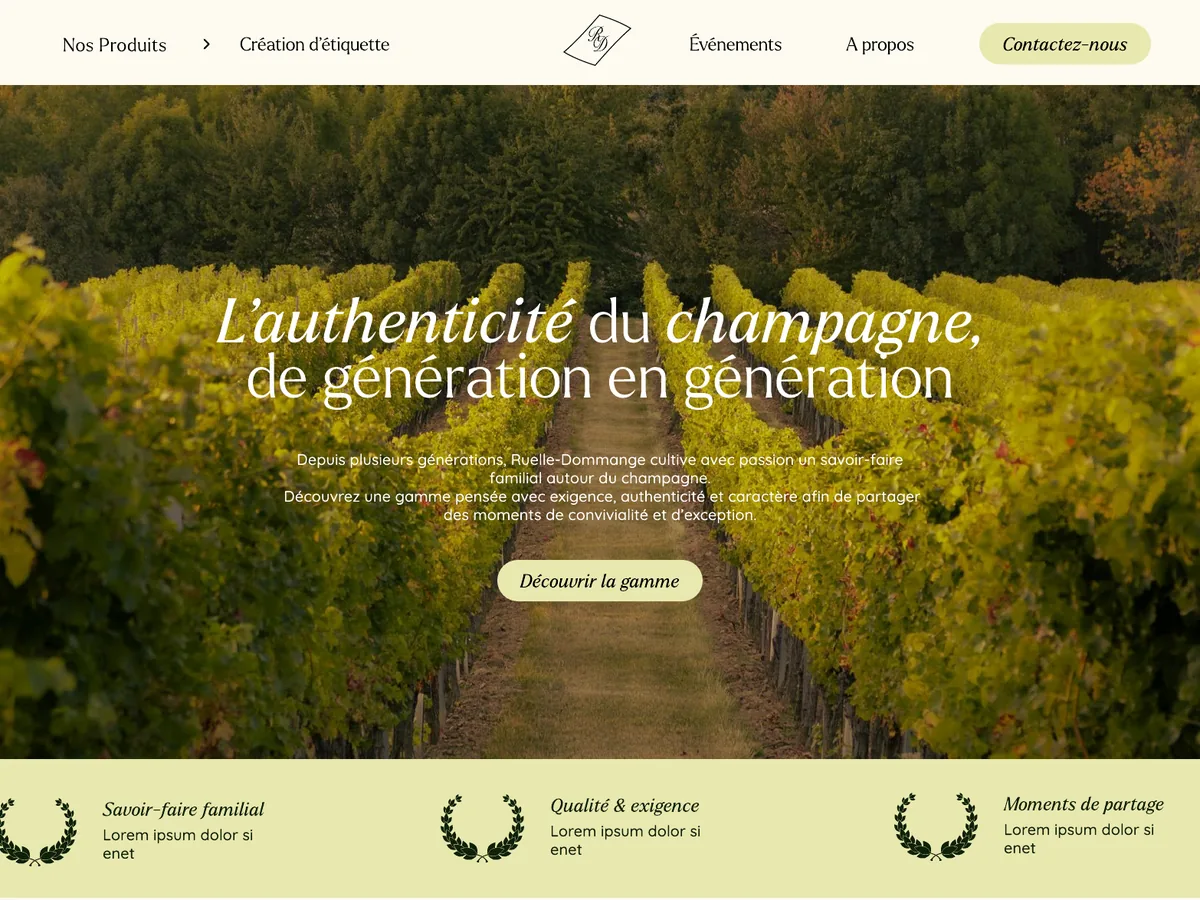
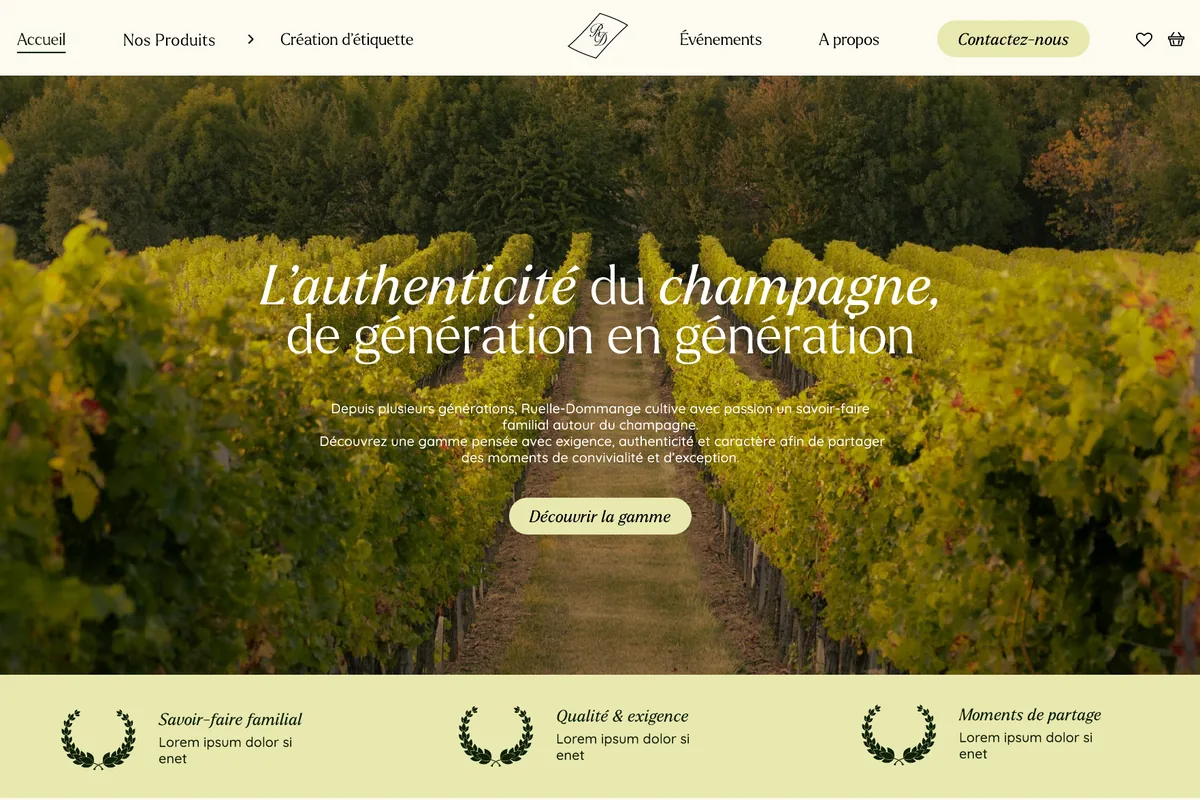
Add files via upload

diff --git a/projet-resolar.html b/projet-resolar.html
@@ -3,19 +3,37 @@
 <head>
 <meta charset="UTF-8">
 <meta name="viewport" content="width=device-width, initial-scale=1, viewport-fit=cover">
-<title>Projets — Studio Onze</title>
-<meta name="description" content="Sélection de projets de Studio Onze : identité visuelle, sites web, direction artistique, print.">
+<title>Resolar — Étude de cas : site web et supports de communication | Studio Onze</title>
+<meta name="description" content="Étude de cas : site web et supports de communication de Resolar, un système de chauffage inventé par deux ingénieurs belges. Cartes de visite, poster, roll-ups, présentation et déclinaisons de marque. Par Studio Onze.">
 <link rel="preconnect" href="https://fonts.googleapis.com">
 <link rel="preconnect" href="https://fonts.gstatic.com" crossorigin>
 <link href="https://fonts.googleapis.com/css2?family=Poppins:wght@300;400;500;700&family=Permanent+Marker&display=swap" rel="stylesheet">
-<link rel="canonical" href="https://www.studioonze.be/projets.html">
+<link rel="canonical" href="https://www.studioonze.be/projet-resolar.html">
 <meta name="robots" content="index, follow">
-<meta property="og:title" content="Projets — Studio Onze">
-<meta property="og:description" content="Sélection de projets de Studio Onze : identité visuelle, sites web, direction artistique, print.">
+<meta property="og:title" content="Resolar — Site web &amp; supports de communication | Studio Onze">
+<meta property="og:description" content="Étude de cas : site web et supports de communication de Resolar, un système de chauffage inventé par deux ingénieurs belges. Cartes de visite, poster, roll-ups, présentation et déclinaisons de marque. Par Studio Onze.">
 <meta property="og:type" content="website">
-<meta property="og:url" content="https://www.studioonze.be/projets.html">
+<meta property="og:url" content="https://www.studioonze.be/projet-resolar.html">
 <meta property="og:locale" content="fr_BE">
+<meta property="og:image" content="https://www.studioonze.be/assets/projets/resolar/resolar-og.jpg">
+<meta property="og:image:width" content="1200">
+<meta property="og:image:height" content="630">
+<meta property="og:image:alt" content="Logotype reSOLAR en blanc sur une photographie de panneaux solaires aux reflets orange">
+<meta name="twitter:card" content="summary_large_image">
 <link rel="stylesheet" href="style.css">
+<script type="application/ld+json">
+{
+  "@context": "https://schema.org",
+  "@type": "CreativeWork",
+  "name": "Resolar — Site web et supports de communication",
+  "about": "Site web et supports de communication de Resolar, système de chauffage associant un module de stockage thermique, des panneaux solaires, une pompe à chaleur et des gainables",
+  "creator": { "@type": "Organization", "name": "Studio Onze", "url": "https://www.studioonze.be/" },
+  "dateCreated": "2025",
+  "inLanguage": "fr-BE",
+  "url": "https://www.studioonze.be/projet-resolar.html",
+  "image": "https://www.studioonze.be/assets/projets/resolar/resolar-og.jpg"
+}
+</script>
 </head>
 <body>
 <div class="page-wrap" id="pageWrap">
@@ -35,15 +53,11 @@
 <path d="M454.212 101.027C442.018 103.929 430.099 105.38 418.363 105.471C406.627 105.561 399.292 104.926 396.358 103.566C391.866 101.48 390.399 98.3061 392.141 94.1345C396.175 84.1588 407.727 73.6389 426.615 62.575C427.256 62.2122 427.715 61.6681 428.082 60.9426C428.448 60.2171 428.082 59.4916 427.44 58.9474C426.431 58.494 423.497 58.6754 418.638 59.6729C413.87 60.6705 410.845 60.8519 409.744 60.3984C408.644 59.8543 408.736 58.1312 409.928 55.1385C411.12 52.1458 412.678 49.9693 414.512 48.5183C417.263 45.5256 429.182 42.3515 450.361 38.996C471.541 35.6406 483.46 34.643 486.21 35.9126C487.586 36.5474 487.677 38.3612 486.485 41.2632C484.285 46.7045 480.893 49.9693 476.217 50.9669C471.541 52.0551 465.306 54.0503 457.421 57.043C449.536 60.0357 441.468 64.026 433.216 68.9231C424.964 73.8203 419.922 78.5361 418.088 82.9798C417.813 83.9774 417.813 84.7029 418.088 85.4284C418.363 86.0632 418.913 86.6074 419.83 87.0608C422.489 88.3304 429.182 88.5118 440.001 87.7863C450.82 87.0608 462.28 85.5191 474.566 83.1612H475.666C477.042 83.8867 477.042 85.7912 475.758 88.9652C473.649 94.1345 466.498 98.2155 454.304 101.027H454.212Z" fill="currentColor"/>
 <path d="M371.236 112C368.027 112 366.377 111.275 366.377 109.733L366.744 108.735C373.62 98.4875 379.58 88.6024 384.531 79.0802C389.482 69.5579 391.957 63.3911 391.957 60.4891C391.957 57.5871 391.682 58.8567 391.224 58.3126C390.765 57.7684 390.032 57.4964 389.115 57.4057C384.623 57.4057 378.571 60.217 371.053 65.9304C363.535 71.6437 356.842 77.5385 351.157 83.5239C345.473 89.6 341.255 94.4972 338.413 98.3061C335.662 102.115 331.536 104.019 325.944 104.019C320.351 104.019 321.451 103.294 321.451 101.752C321.451 98.7595 327.136 88.3304 338.413 70.3741C349.69 52.4178 357.208 42.7142 360.876 41.3539C362.801 40.1749 365.368 39.6308 368.394 39.6308C371.42 39.6308 372.978 40.2656 372.978 41.4446C372.978 42.6235 371.603 45.2535 368.853 49.2437C366.102 53.234 364.727 55.7733 364.727 56.9522C365.002 57.8591 365.46 58.3126 366.194 58.3126C366.927 58.3126 367.569 58.1312 368.211 57.5871C385.264 44.4373 398.834 37.9077 409.011 37.9077C419.188 37.9077 415.429 40.3563 415.429 45.2535C415.429 50.1506 413.045 55.3199 408.277 65.9304C403.51 76.5409 397.459 86.7887 390.124 96.7644C382.789 106.74 376.462 111.728 371.236 111.728V112Z" fill="currentColor"/>
 </g>
-<defs>
-<clipPath id="clip0_678_168">
-<rect width="558" height="112" fill="white"/>
-</clipPath>
-</defs>
-</svg></a>
+<defs><clipPath id="clip0_678_168"><rect width="558" height="112" fill="white"/></clipPath></defs>
+</svg></a></a>
     <div class="nav-right">
     <ul class="navlinks">
-      <li><a href="projets.html">Projets</a></li>
+      <li><a href="projets.html" class="active">Projets</a></li>
       <li><a href="apropos.html">À propos</a></li>
       <li><a href="contact.html">Contact</a></li>
     </ul>
@@ -60,125 +74,71 @@
 </header>
 
 <main>
-  <section style="padding-bottom:0;">
-    <div class="wrap" style="display:flex; justify-content:space-between; gap:2rem; flex-wrap:wrap; align-items:flex-end;">
-      <h1 style="font-size:clamp(2.2rem,6vw,4.5rem); font-weight:400; letter-spacing:-0.02em; text-transform:uppercase;">Projets</h1>
-      <p class="hero-lede" style="margin-top:0; max-width:30ch;"><span class="caps">(Sélection)</span><br>Une sélection de projets récents, en identité, digital et print.</p>
+  <section class="project-hero">
+    <div class="wrap">
+      <a class="caps" href="projets.html">← Retour aux projets</a>
+      <h1 class="project-title"><span class="char">re</span>SOLAR</h1>
+      <p class="project-sub">Site web — Supports de communication</p>
+      <div class="project-meta">
+        <div><span class="caps">Client</span><p>Resolar, stockage thermique pour pompes à chaleur</p></div>
+        <div><span class="caps">Type</span><p>Site web &amp; print</p></div>
+        <div><span class="caps">Année</span><p>2025</p></div>
+        <div><span class="caps">Discipline</span><p>Site web, print, présentation, déclinaisons de marque</p></div>
+      </div>
     </div>
   </section>
 
-  <section style="border-top:none;">
-    <div class="wrap">
-      <div class="filters">
-        <select id="sortSelect"><option>Trier par : Récents</option><option>Trier par : A → Z</option></select>
-        <select id="typeSelect">
-          <option value="all">Type de projet : Tous</option>
-          <option value="identite">Identité</option>
-          <option value="web">Site web</option>
-          <option value="print">Print</option>
-          <option value="da">Direction artistique</option>
-          <option value="motion">Motion</option>
-        </select>
-        <div class="view-toggle">
-          <button data-view="grid" class="active">Grille</button>
-          <button data-view="list">Liste</button>
-        </div>
-      </div>
+  <section style="padding:0; border-top:none;">
+    <div class="project-split">
+      <aside class="project-info">
+        <div class="project-info-inner">
+          <h2 class="caps">Le projet</h2>
+          <p>Resolar est née de l'invention de deux ingénieurs belges&nbsp;: une nouvelle façon de se chauffer. Un module de stockage thermique, l'invention elle-même, s'associe à des panneaux solaires, une pompe à chaleur et des gainables, et conserve l'énergie excédentaire produite par le solaire et la pompe à chaleur.</p>
+          <p>Il fallait rendre cette technologie lisible et crédible auprès de publics très différents&nbsp;: visiteurs de salon, partenaires industriels, investisseurs. Le site web, en anglais, présente l'activité ; autour de lui, des supports déclinent le même univers&nbsp;: un orange vif, couleur du soleil et de la chaleur, face à un bleu marine sérieux et technique, et un symbole en rayons posé sur une ligne.</p>
 
-      <div class="view-block active" id="gridView">
-        <div class="grid-view">
-          <a class="grid-card featured" href="projet-le-scenario.html" data-type="identite web">
-            <div class="grid-thumb has-img"><span class="grid-num">(001)</span><img src="assets/projets/le-scenario/le-scenario-cover.gif" alt="Le Scénario — rebranding et site web d'un restaurant à Leuze-en-Hainaut" width="1000" height="667"><span class="grid-pill">Identité &amp; web</span>
-              <div class="grid-overlay"><span class="view-btn">→ Voir le projet</span></div></div>
-            <div class="grid-caption"><span class="meta">2025</span><span class="name char">Le Scénario</span></div>
-          </a>
-          <a class="grid-card" href="projet-atelier-mareges.html" data-type="web">
-            <div class="grid-thumb"><span class="grid-num">(002)</span><span class="ph">Visuel à venir</span><span class="grid-pill">Site web</span>
-              <div class="grid-overlay"><span class="view-btn">→ Voir le projet</span></div></div>
-            <div class="grid-caption"><span class="meta">2025</span><span class="name">Atelier Marèges</span></div>
-          </a>
-          <a class="grid-card" href="projet-maison-verre.html" data-type="print">
-            <div class="grid-thumb"><span class="grid-num">(003)</span><span class="ph">Visuel à venir</span><span class="grid-pill">Print</span>
-              <div class="grid-overlay"><span class="view-btn">→ Voir le projet</span></div></div>
-            <div class="grid-caption"><span class="meta">2024</span><span class="name char">Maison Verre</span></div>
-          </a>
-          <a class="grid-card" href="projet-greco.html" data-type="identite">
-            <div class="grid-thumb has-img"><span class="grid-num">(004)</span><img src="assets/projets/greco/greco-papeterie-bureau.webp" alt="Greco — identité de marque d'une diététicienne indépendante" width="1448" height="1086"><span class="grid-pill">Identité</span>
-              <div class="grid-overlay"><span class="view-btn">→ Voir le projet</span></div></div>
-            <div class="grid-caption"><span class="meta">2026</span><span class="name">Greco</span></div>
-          </a>
-          <a class="grid-card" href="projet-perle-noire.html" data-type="motion">
-            <div class="grid-thumb"><span class="grid-num">(005)</span><span class="ph">Visuel à venir</span><span class="grid-pill">Motion</span>
-              <div class="grid-overlay"><span class="view-btn">→ Voir le projet</span></div></div>
-            <div class="grid-caption"><span class="meta">2024</span><span class="name char">Perle Noire</span></div>
-          </a>
-          <a class="grid-card" href="projet-rivage-studio.html" data-type="web">
-            <div class="grid-thumb"><span class="grid-num">(006)</span><span class="ph">Visuel à venir</span><span class="grid-pill">Site web</span>
-              <div class="grid-overlay"><span class="view-btn">→ Voir le projet</span></div></div>
-            <div class="grid-caption"><span class="meta">2026</span><span class="name">Rivage Studio</span></div>
-          </a>
-          <a class="grid-card" href="projet-nemea.html" data-type="identite">
-            <div class="grid-thumb has-img"><span class="grid-num">(007)</span><img src="assets/projets/nemea/nemea-cover.gif" alt="Nemea — identité de marque streetwear" width="736" height="736"><span class="grid-pill">Identité</span>
-              <div class="grid-overlay"><span class="view-btn">→ Voir le projet</span></div></div>
-            <div class="grid-caption"><span class="meta">2026</span><span class="name char">Nemea</span></div>
-          </a>
-          <a class="grid-card" href="projet-robys-bar.html" data-type="print identite">
-            <div class="grid-thumb has-img"><span class="grid-num">(008)</span><img src="assets/projets/robys-bar/robys-bar-cover.gif" alt="Roby's Bar — identité et packaging de barres de céréales" width="1000" height="667"><span class="grid-pill">Identité &amp; packaging</span>
-              <div class="grid-overlay"><span class="view-btn">→ Voir le projet</span></div></div>
-            <div class="grid-caption"><span class="meta">2026</span><span class="name">Roby's Bar</span></div>
-          </a>
-          <a class="grid-card" href="projet-ruelle-dommange.html" data-type="web da">
-            <div class="grid-thumb has-img"><span class="grid-num">(009)</span><img src="assets/projets/ruelle-dommange/ruelle-dommange-vignette.webp" alt="Ruelle-Dommange — refonte UX/UI du site d'une maison de champagne" width="1200" height="900" loading="lazy"><span class="grid-pill">UX/UI &amp; direction artistique</span>
-              <div class="grid-overlay"><span class="view-btn">→ Voir le projet</span></div></div>
-            <div class="grid-caption"><span class="meta">En cours</span><span class="name">Ruelle-Dommange</span></div>
-          </a>
-          <a class="grid-card" href="projet-resolar.html" data-type="web print">
-            <div class="grid-thumb has-img"><span class="grid-num">(010)</span><img src="assets/projets/resolar/resolar-cover.gif" alt="Resolar — site web et supports de communication d'un système de chauffage solaire" width="1000" height="667" loading="lazy"><span class="grid-pill">Site web &amp; print</span>
-              <div class="grid-overlay"><span class="view-btn">→ Voir le projet</span></div></div>
-            <div class="grid-caption"><span class="meta">2025</span><span class="name">reSOLAR</span></div>
-          </a>
-        </div>
-      </div>
+          <h3 class="caps">Livrables</h3>
+          <ul class="palette-list">
+            <li>Site web (maquette et réalisation)</li>
+            <li>Cartes de visite</li>
+            <li>Poster et visuels de couverture</li>
+            <li>Roll-ups&nbsp;: stand et partenaires</li>
+            <li>Présentation&nbsp;: chiffres clés</li>
+            <li>Déclinaisons de marque&nbsp;: véhicule, casque de chantier, carnet, mug</li>
+          </ul>
 
-      <div class="view-block" id="listView">
-        <ul class="work-list">
-          <li class="work-row" data-type="identite web"><a href="projet-le-scenario.html" data-label="Identité &amp; site web">
-            <span class="wnum">01</span><span class="wname char">Le&nbsp;Scénario</span><span class="wtype">Identité &amp; web</span>
-          </a></li>
-          <li class="work-row" data-type="web"><a href="projet-atelier-mareges.html" data-label="Site web — placeholder">
-            <span class="wnum">02</span><span class="wname">Atelier&nbsp;Marèges</span><span class="wtype">Site web</span>
-          </a></li>
-          <li class="work-row" data-type="print"><a href="projet-maison-verre.html" data-label="Print — placeholder">
-            <span class="wnum">03</span><span class="wname char">Maison&nbsp;Verre</span><span class="wtype">Print</span>
-          </a></li>
-          <li class="work-row" data-type="identite"><a href="projet-greco.html" data-label="Identité de marque">
-            <span class="wnum">04</span><span class="wname">Greco</span><span class="wtype">Identité</span>
-          </a></li>
-          <li class="work-row" data-type="motion"><a href="projet-perle-noire.html" data-label="Motion — placeholder">
-            <span class="wnum">05</span><span class="wname char">Perle&nbsp;Noire</span><span class="wtype">Motion</span>
-          </a></li>
-          <li class="work-row" data-type="web"><a href="projet-rivage-studio.html" data-label="Site web — placeholder">
-            <span class="wnum">06</span><span class="wname">Rivage&nbsp;Studio</span><span class="wtype">Site web</span>
-          </a></li>
-          <li class="work-row" data-type="identite"><a href="projet-nemea.html" data-label="Identité — streetwear">
-            <span class="wnum">07</span><span class="wname char">Nemea</span><span class="wtype">Identité</span>
-          </a></li>
-          <li class="work-row" data-type="print identite"><a href="projet-robys-bar.html" data-label="Identité &amp; packaging">
-            <span class="wnum">08</span><span class="wname">Roby's&nbsp;Bar</span><span class="wtype">Identité &amp; packaging</span>
-          </a></li>
-          <li class="work-row" data-type="web da"><a href="projet-ruelle-dommange.html" data-label="UX/UI &amp; direction artistique">
-            <span class="wnum">09</span><span class="wname">Ruelle-Dommange</span><span class="wtype">UX/UI &amp; direction artistique</span>
-          </a></li>
-          <li class="work-row" data-type="web print"><a href="projet-resolar.html" data-label="Site web &amp; print">
-            <span class="wnum">10</span><span class="wname">reSOLAR</span><span class="wtype">Site web &amp; print</span>
-          </a></li>
-        </ul>
+          <h3 class="caps">Palette</h3>
+          <ul class="palette-list">
+            <li><span class="swatch" style="background:#FF5500;"></span>Orange Resolar — #FF5500</li>
+            <li><span class="swatch" style="background:#002277;"></span>Bleu marine — #002277</li>
+            <li><span class="swatch" style="background:#F7F7EF;"></span>Blanc cassé — #F7F7EF</li>
+          </ul>
+
+          <h3 class="caps">Typographie</h3>
+          <p>Une sans-serif géométrique, légère sur les grands titres et la signature «&nbsp;A cleaner and more sustainable way to heat&nbsp;», associée au logotype reSOLAR dont le «&nbsp;re&nbsp;» en italique minuscule se détache des capitales de SOLAR.</p>
+
+          <a class="next-project" href="projet-le-scenario.html">→ Projet suivant&nbsp;: Le Scénario</a>
+        </div>
+      </aside>
+
+      <div class="project-gallery">
+        <div class="gallery-grid">
+          <img class="wide" src="assets/projets/resolar/resolar-cover.gif" alt="Logotype reSOLAR en blanc sur des panneaux solaires aux reflets orange, puis sur des toits équipés de panneaux solaires, cover animée du projet" width="1000" height="667" fetchpriority="high">
+          <img class="natural" src="assets/projets/resolar/resolar-carte-de-visite.webp" alt="Carte de visite Resolar au nom d'un co-fondateur, posée sur un disque orange texturé, avec le symbole en rayons en grand en filigrane" width="1000" height="1120" loading="lazy">
+          <img class="natural" src="assets/projets/resolar/resolar-visuel-panneaux.webp" alt="Symbole en rayons de Resolar en grand format blanc sur une photographie aérienne de panneaux solaires bleus" width="1000" height="1120" loading="lazy">
+          <img class="wide natural" src="assets/projets/resolar/resolar-cartes-photos.webp" alt="Trois cartes Resolar&nbsp;: un technicien sous des panneaux solaires, l'accroche «&nbsp;A cleaner and more sustainable way to heat&nbsp;» sur fond orange et un chantier de construction" width="1600" height="855" loading="lazy">
+          <img class="wide natural" src="assets/projets/resolar/resolar-papeterie.webp" alt="Bureau d'architecte aux couleurs de Resolar&nbsp;: casque, carnet orange, mug, téléphone bleu marine, stylo et plans roulés portant le symbole en rayons" width="1535" height="1024" loading="lazy">
+          <img class="natural" src="assets/projets/resolar/resolar-casque.webp" alt="Casque de chantier orange Resolar avec le symbole en rayons et le mot resolar en blanc" width="900" height="900" loading="lazy">
+          <img class="natural" src="assets/projets/resolar/resolar-poster.webp" alt="Poster Resolar orange présentant le module de stockage thermique intégré, accroché sur un mur en béton" width="800" height="800" loading="lazy">
+          <img class="wide natural" src="assets/projets/resolar/resolar-vehicule.webp" alt="Véhicule utilitaire blanc aux couleurs de Resolar, avec des rayons orange sur la carrosserie, devant un chantier" width="1536" height="1024" loading="lazy">
+          <img class="natural" src="assets/projets/resolar/resolar-roll-up-partenaires.webp" alt="Roll-up bleu marine Resolar «&nbsp;Our partners&nbsp;» présentant cinq partenaires&nbsp;: OneAir, Brink, Saint-Gobain, Wallonia.be et Cenaero" width="800" height="800" loading="lazy">
+          <img class="natural" src="assets/projets/resolar/resolar-stand-dubai.webp" alt="Stand Resolar sur un salon à Dubaï&nbsp;: roll-up bleu marine, comptoir au logo reSOLAR et roll-up des partenaires" width="800" height="800" loading="lazy">
+          <img class="wide natural" src="assets/projets/resolar/resolar-presentation-chiffres.webp" alt="Diapositive Resolar «&nbsp;in a few numbers&nbsp;» projetée sur grand écran dans une salle de conférence, avec deux barres orange" width="1600" height="855" loading="lazy">
+          <img class="wide natural" src="assets/projets/resolar/resolar-site-web.webp" alt="Maquette du site web Resolar sur un ordinateur portable&nbsp;: page d'accueil «&nbsp;Your thermal storage solution for heat pumps&nbsp;»" width="1328" height="710" loading="lazy">
+        </div>
       </div>
     </div>
   </section>
 </main>
-
-<div class="cursor-preview" id="cursorPreview"><span></span></div>
 
 <footer class="site-footer">
   <div class="footer-inner">

diff --git a/index.html b/index.html
@@ -126,6 +126,10 @@
         <div class="filmstrip-label">Ruelle-Dommange</div>
         <div class="filmstrip-img"><img src="assets/projets/ruelle-dommange/ruelle-dommange-vignette-portrait.webp" alt="Ruelle-Dommange — refonte UX/UI du site d'une maison de champagne" loading="lazy" width="800" height="1061"></div>
       </a>
+      <a class="filmstrip-item" href="projet-resolar.html">
+        <div class="filmstrip-label">reSOLAR</div>
+        <div class="filmstrip-img"><img src="assets/projets/resolar/resolar-vignette-portrait.webp" alt="reSOLAR — site web et supports de communication d'un système de chauffage solaire" loading="lazy" width="800" height="1029"></div>
+      </a>
       <a class="filmstrip-item" href="projet-atelier-mareges.html">
         <div class="filmstrip-label">Atelier Marèges</div>
         <div class="filmstrip-img"><img src="https://picsum.photos/seed/onze-film2/500/650" alt="Visuel temporaire — projet Atelier Marèges" loading="lazy" width="500" height="650"></div>

diff --git a/projet-ruelle-dommange.html b/projet-ruelle-dommange.html
@@ -288,7 +288,7 @@
     <div class="wrap">
       <div class="sec-head rv"><h2 class="sec-title">Conclusion</h2><span class="sec-count">(08)</span></div>
       <p class="manifest concl rv">Il ne s'agissait pas de refaire un site, mais d'en faire <mark>un outil</mark>&nbsp;: qui communique mieux, représente mieux la marque, présente mieux les produits, guide les visiteurs et réduit les frictions entre Ruelle-Dommange et ses clients.</p>
-      <a class="next-project" href="projet-le-scenario.html" style="margin-top:3rem;max-width:30rem;">→ Projet suivant&nbsp;: Le Scénario</a>
+      <a class="next-project" href="projet-resolar.html" style="margin-top:3rem;max-width:30rem;">→ Projet suivant&nbsp;: Resolar</a>
     </div>
   </section>
 
